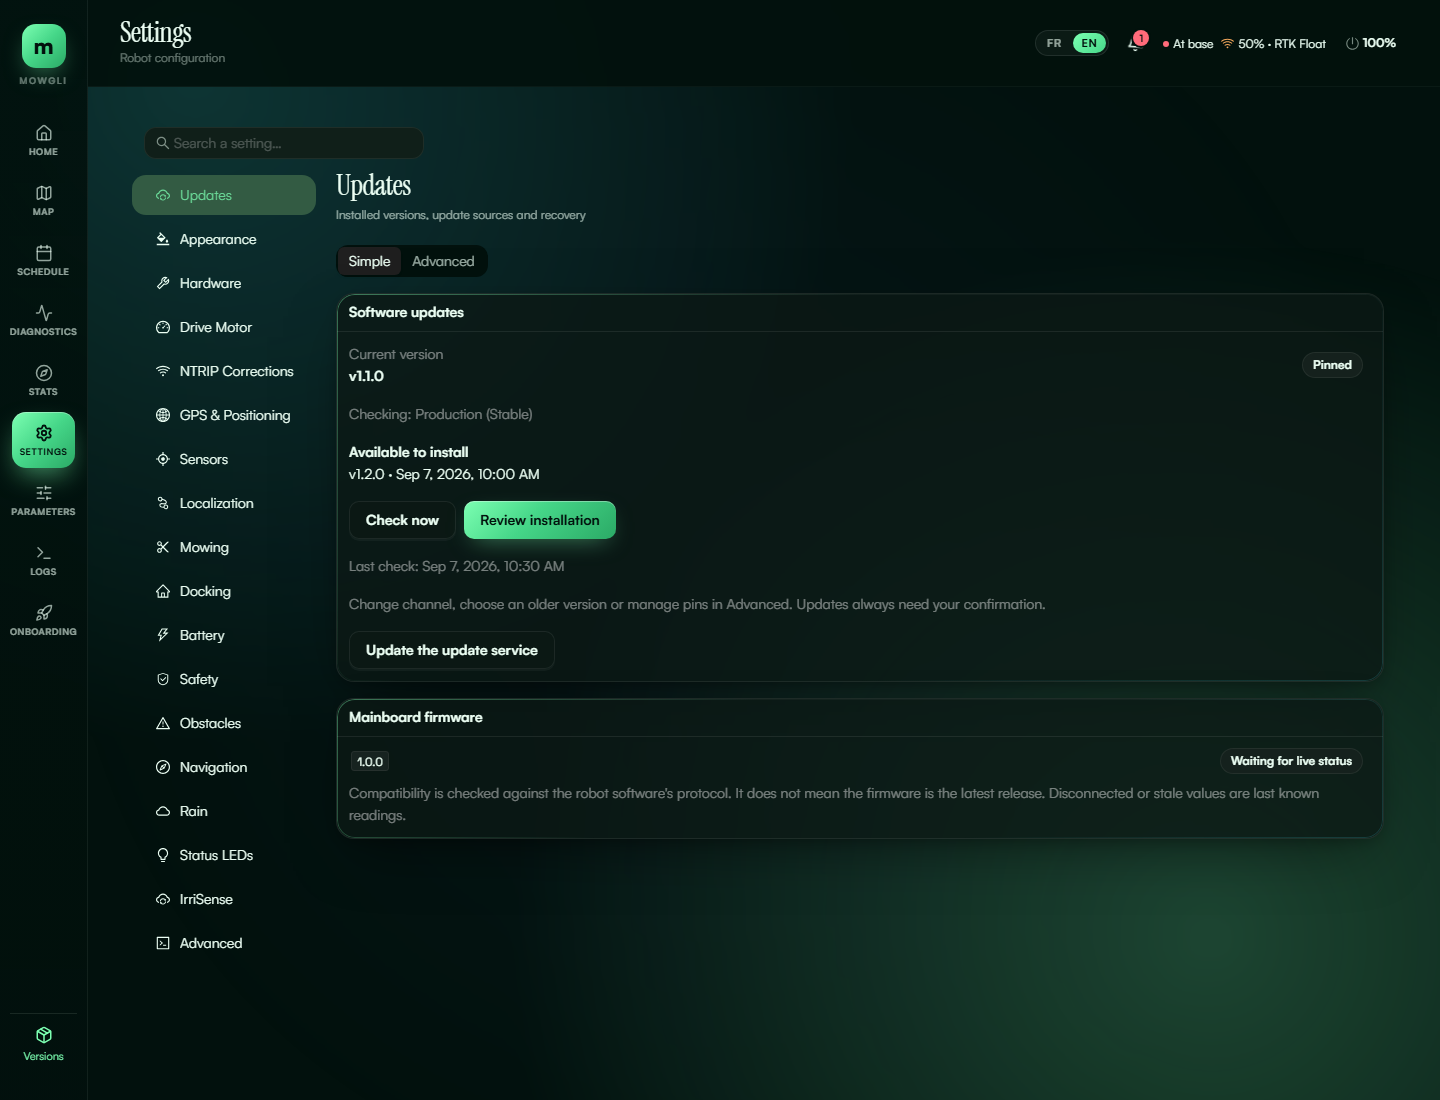
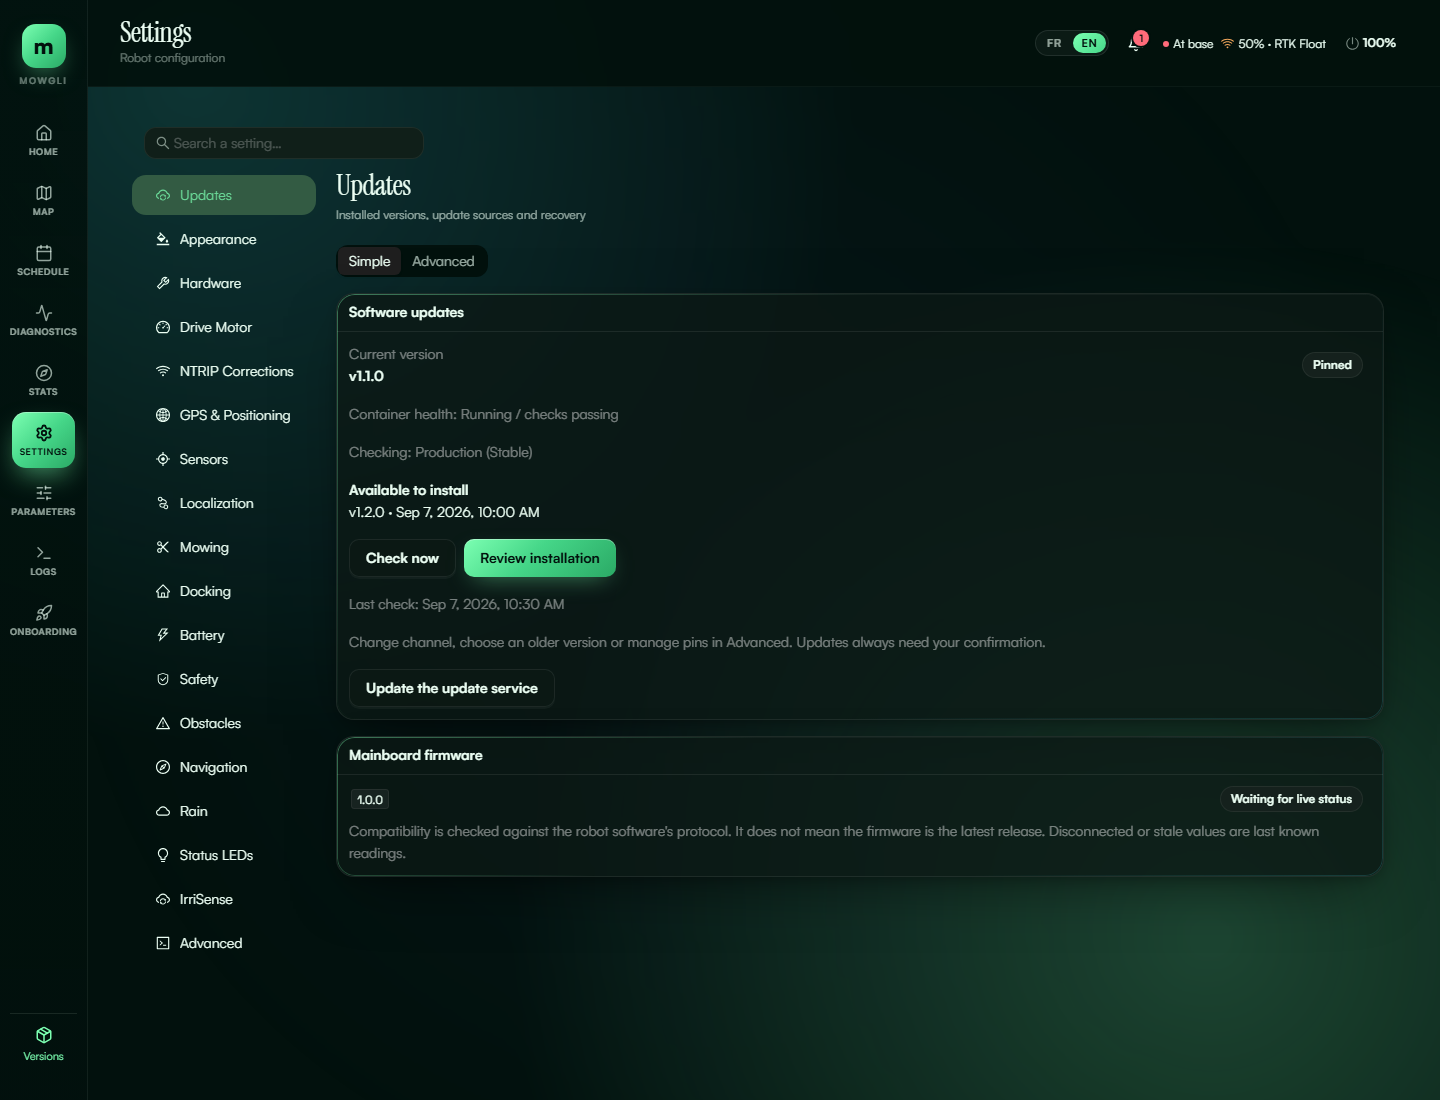
docs: refresh update UI and illustrate compatible GUI overrides

Changed region(s): [[0.2188, 0.3709, 0.9375, 0.8036]]

diff --git a/screenshots/UPDATER-README.md b/screenshots/UPDATER-README.md
@@ -1,0 +1,12 @@
+# PR 540 updater screenshots
+
+Generated by gui/web/tests/e2e/host-updater.spec.ts on feat/settings-updates.
+All host-updater images are mocked upstream mowglinext/mowglinext examples.
+Production versions v1.1.0, v1.2.0, v1.2.1 and v1.3.0 are illustrative fixtures,
+not claims about available releases. No live robot data is included.
+
+Simple/Advanced and whole-deployment review: desktop 1440x1100, mobile 390x844.
+Custom combination / GUI override / review: desktop 1440x1400, mobile 390x844.
+Mobile Advanced screenshots scroll to the relevant controls. Review animations
+are settled before capture. These screenshots illustrate the UI, not hardware
+acceptance or completed upstream publication.
